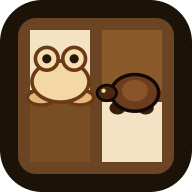
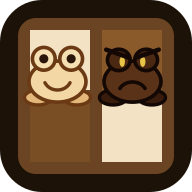
Turn the Enemy into a mean walnut frog.
Keep the maple hopper as a friendly frog and swap the turtle for a scowling dark frog so both sides are frogs with two moods.

Changed region(s): [[0.125, 0.2188, 0.875, 0.625]]

diff --git a/index.html b/index.html
@@ -130,7 +130,7 @@
             </li>
             <li>
               <b>Keys and comfort.</b> Arrows move the gold outline. Enter hops. Escape opens Menu.
-              Colorblind paints your maple frogs gold and the Enemy turtles teal. Motion off
+              Colorblind paints your maple frogs gold and the Enemy frogs teal. Motion off
               skips hops and petals.
             </li>
           </ol>

diff --git a/src/style.css b/src/style.css
@@ -679,7 +679,7 @@ button small {
   filter: drop-shadow(0 4px 0 rgba(40, 22, 8, 0.42));
 }
 
-/* You: maple frog. Enemy: walnut turtle. Two toys, not a checker and not a little man. */
+/* You: maple frog. Enemy: walnut mean frog. Same toy, two moods. */
 .man.you::before {
   background-image: url("./assets/piece-you.svg");
 }
